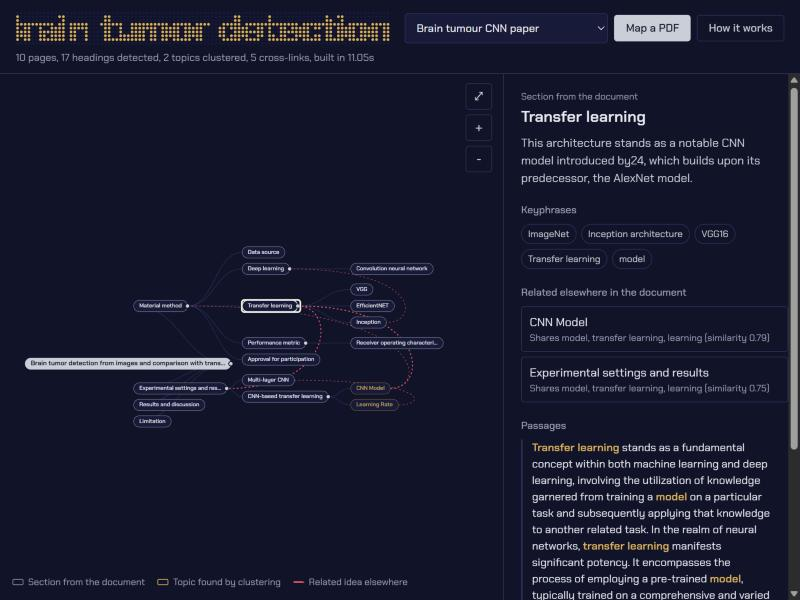
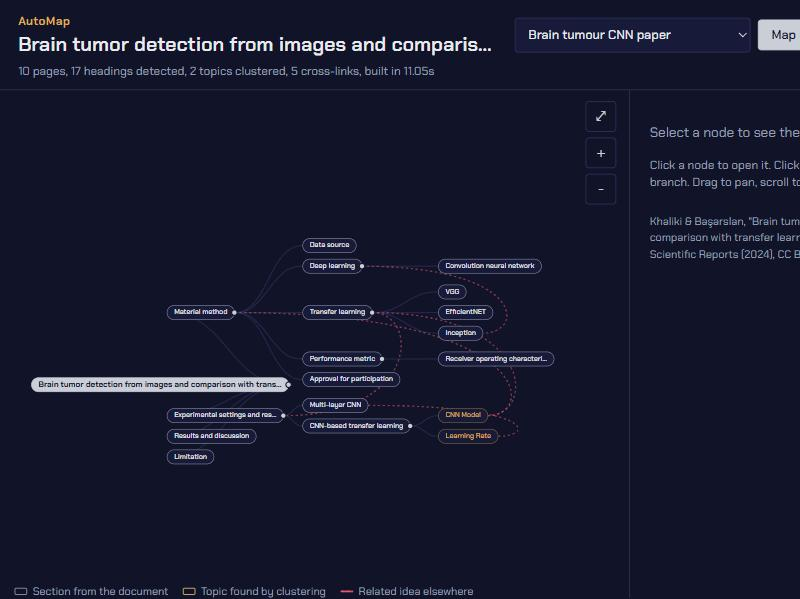
Replace LED title with a plain readable heading

Changed region(s): [[0.0312, 0.1202, 1.0, 1.0], [0.0, 0.0, 1.0, 0.1503], [0.0, 0.9616, 0.5938, 1.0]]

diff --git a/web/style.css b/web/style.css
@@ -42,7 +42,11 @@ body {
   padding: 14px 20px 6px;
 }
 .brand { flex: 1 1 320px; min-width: 0; }
-.led { display: block; width: 100%; height: 44px; }
+.wordmark { margin: 0; color: var(--gold); font-size: 13px; font-weight: 600; letter-spacing: .04em; }
+.doc-title {
+  margin: 2px 0 0; font-size: 22px; line-height: 1.25; font-weight: 600; color: var(--text);
+  overflow: hidden; text-overflow: ellipsis; white-space: nowrap;
+}
 .actions { display: flex; gap: 8px; align-items: center; flex-wrap: wrap; }
 
 .btn {
@@ -182,6 +186,7 @@ body {
   .stage { grid-template-columns: 1fr; grid-template-rows: minmax(380px, 60vh) auto; }
   .panel { border-left: 0; border-top: 1px solid var(--line); padding: 16px; }
   .top { padding: 12px 16px 6px; }
+  .doc-title { font-size: 18px; white-space: normal; }
   .stats { padding: 0 16px 8px; }
   .legend { display: none; }
   .picker select { max-width: 180px; }

diff --git a/web/index.html b/web/index.html
@@ -13,8 +13,8 @@
 <body>
   <header class="top">
     <div class="brand">
-      <canvas id="led" class="led" aria-hidden="true"></canvas>
-      <h1 id="doc-title" class="visually-hidden">AutoMap</h1>
+      <p class="wordmark">AutoMap</p>
+      <h1 id="doc-title" class="doc-title">Loading map…</h1>
     </div>
     <div class="actions">
       <label class="picker">
@@ -67,7 +67,6 @@
   </dialog>
 
   <script src="https://cdnjs.cloudflare.com/ajax/libs/d3/7.9.0/d3.min.js"></script>
-  <script src="led.js"></script>
   <script src="app.js"></script>
 </body>
 </html>

diff --git a/web/app.js b/web/app.js
@@ -110,8 +110,9 @@
     root.each((n) => {
       if (n.children && n.depth >= (big ? 1 : 3)) collapse(n);
     });
-    document.getElementById("doc-title").textContent = data.title;
-    window.setLedText && window.setLedText(data.title);
+    const heading = document.getElementById("doc-title");
+    heading.textContent = data.title;
+    heading.title = data.title;
     const s = data.stats || {};
     stats.textContent = [
       s.pages && `${s.pages} pages`,
